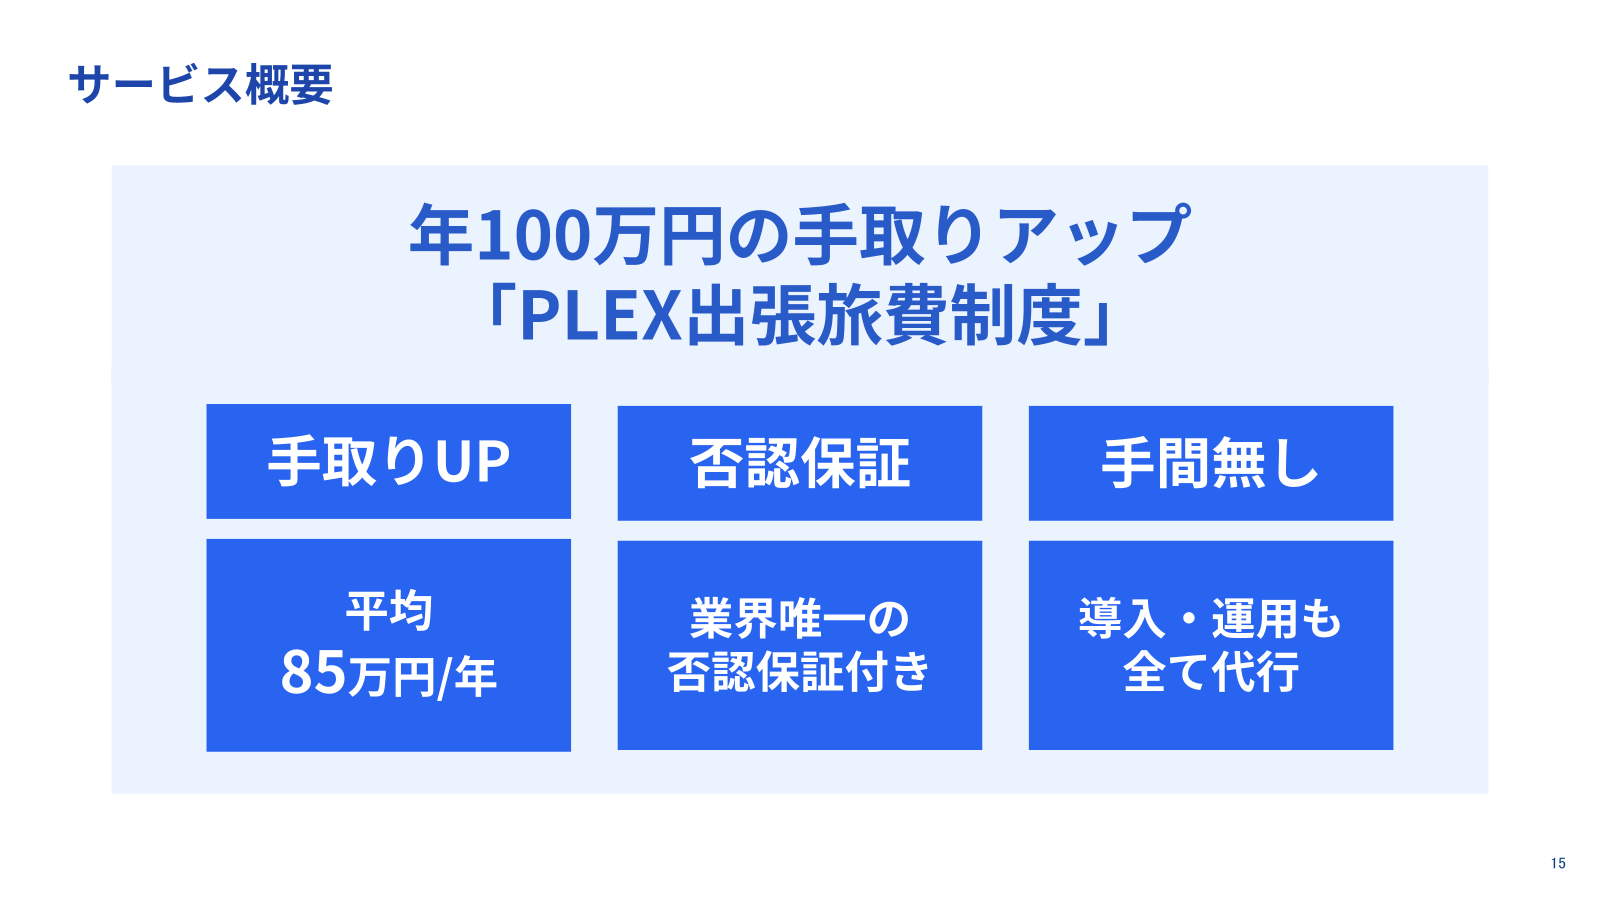
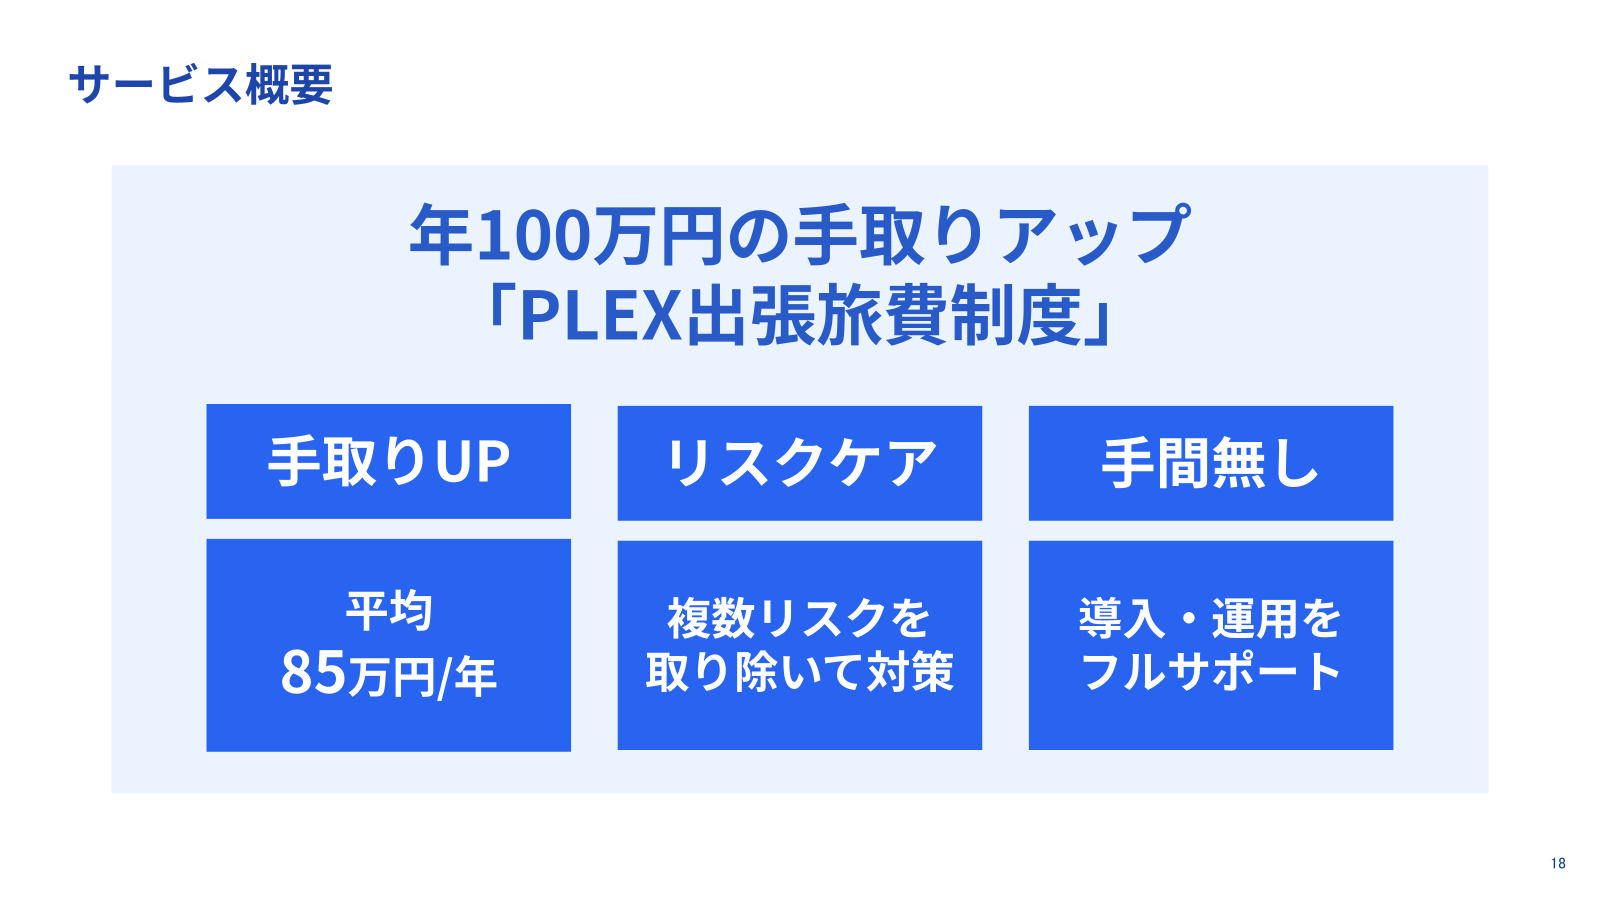
fix: 資料ダウンロードのサムネイルを最新営業資料のスライド18・13に差替
新営業資料（1GViFikQnEO...）をソースに再エクスポート。
- doc_thumb_service.png: スライド18（サービス概要 - 3軸ベネフィット）に差替
- doc_thumb_traditional.png: スライド13（従来とPLEXの違い比較表）を追加
- doc_thumb_comparison.png: 旧資料由来のため削除
- DownloadFormのalt textを新スライド内容に合わせて更新

Changed region(s): [[0.4062, 0.6533, 0.5938, 0.7778], [0.4062, 0.4667, 0.5938, 0.56], [0.6875, 0.6533, 0.8438, 0.7778]]

diff --git a/src/components/DownloadForm.tsx b/src/components/DownloadForm.tsx
@@ -138,8 +138,8 @@ export default function DownloadForm() {
               <div className="doc-label">SERVICE DOCUMENT</div>
               <h2>3分でわかる！<br />PLEX 出張旅費制度<br />サービス資料</h2>
               <div className="doc-thumbs">
-                <Image src="/doc_thumb_service.png" alt="サービス概要" width={460} height={259} loading="lazy" />
-                <Image src="/doc_thumb_comparison.png" alt="従来とPLEX出張旅費制度の違い" width={460} height={259} loading="lazy" />
+                <Image src="/doc_thumb_service.png" alt="サービス概要 - 年100万円の手取りアップ" width={460} height={259} loading="lazy" />
+                <Image src="/doc_thumb_traditional.png" alt="従来とPLEX出張旅費制度の違い" width={460} height={259} loading="lazy" />
               </div>
               <p className="doc-desc">出張旅費制度の仕組みから手取りアップの概算例、導入イメージまでを分かりやすくまとめた資料です。</p>
               <div className="doc-contents">
